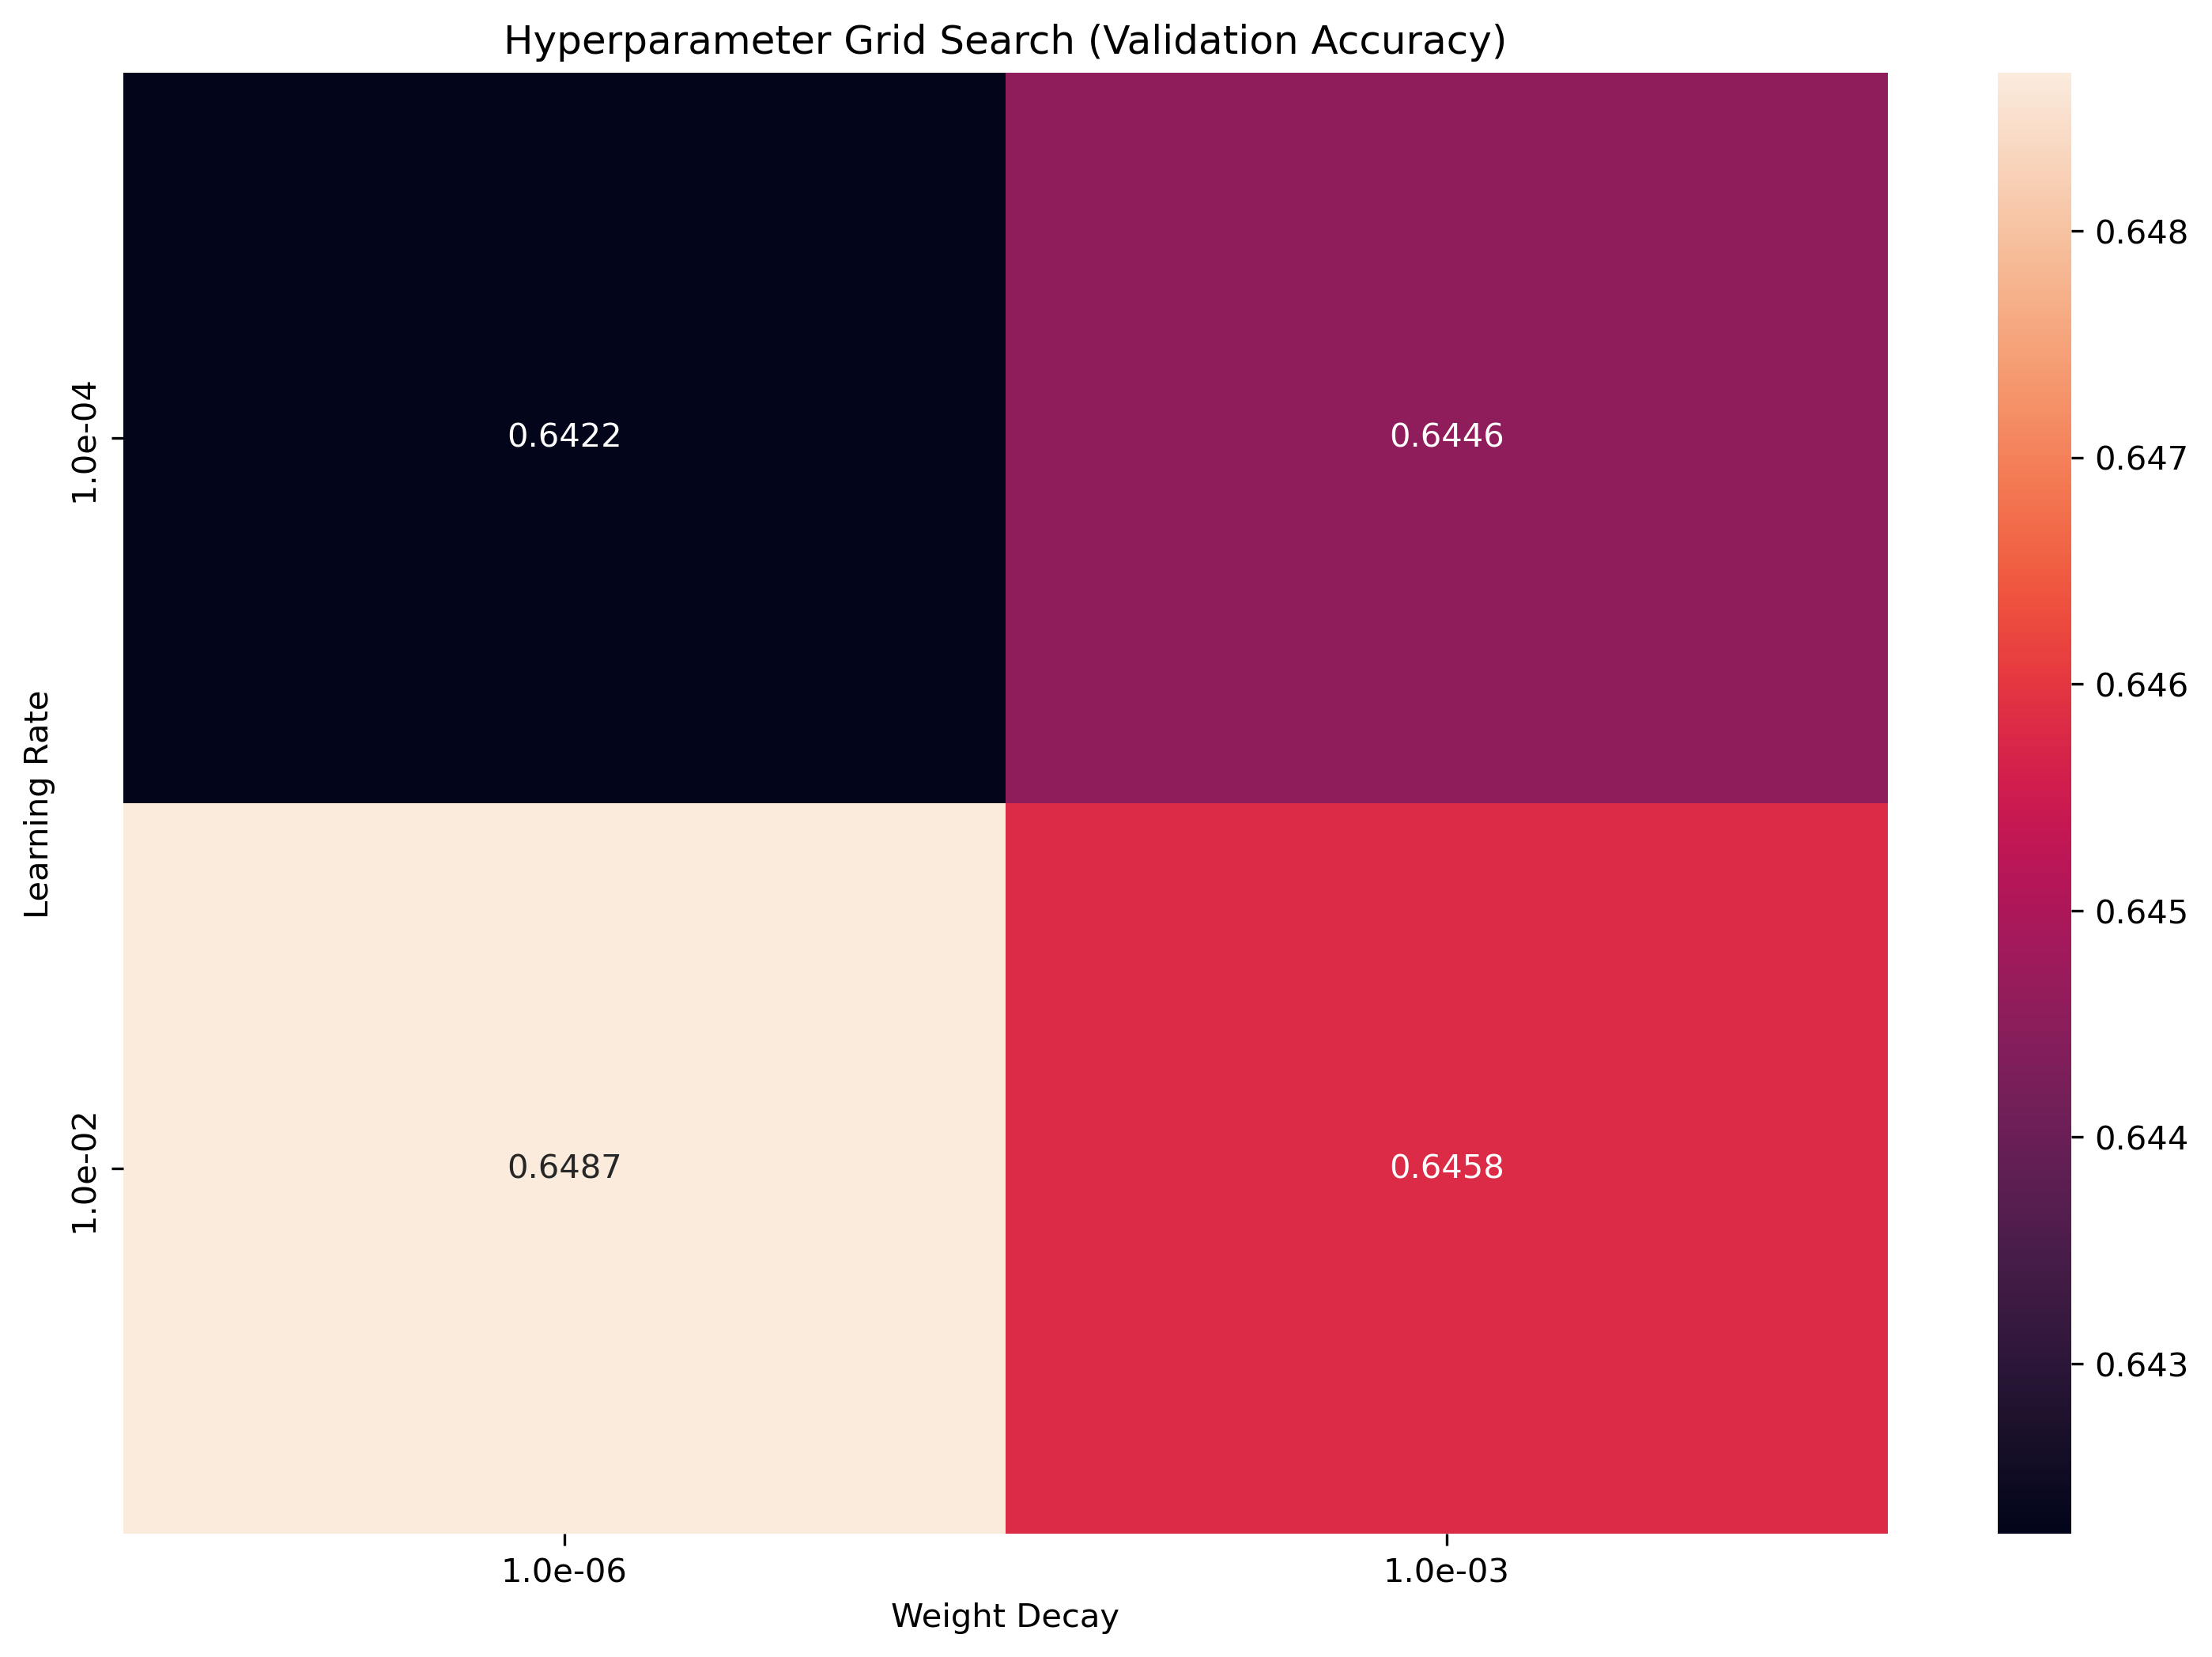
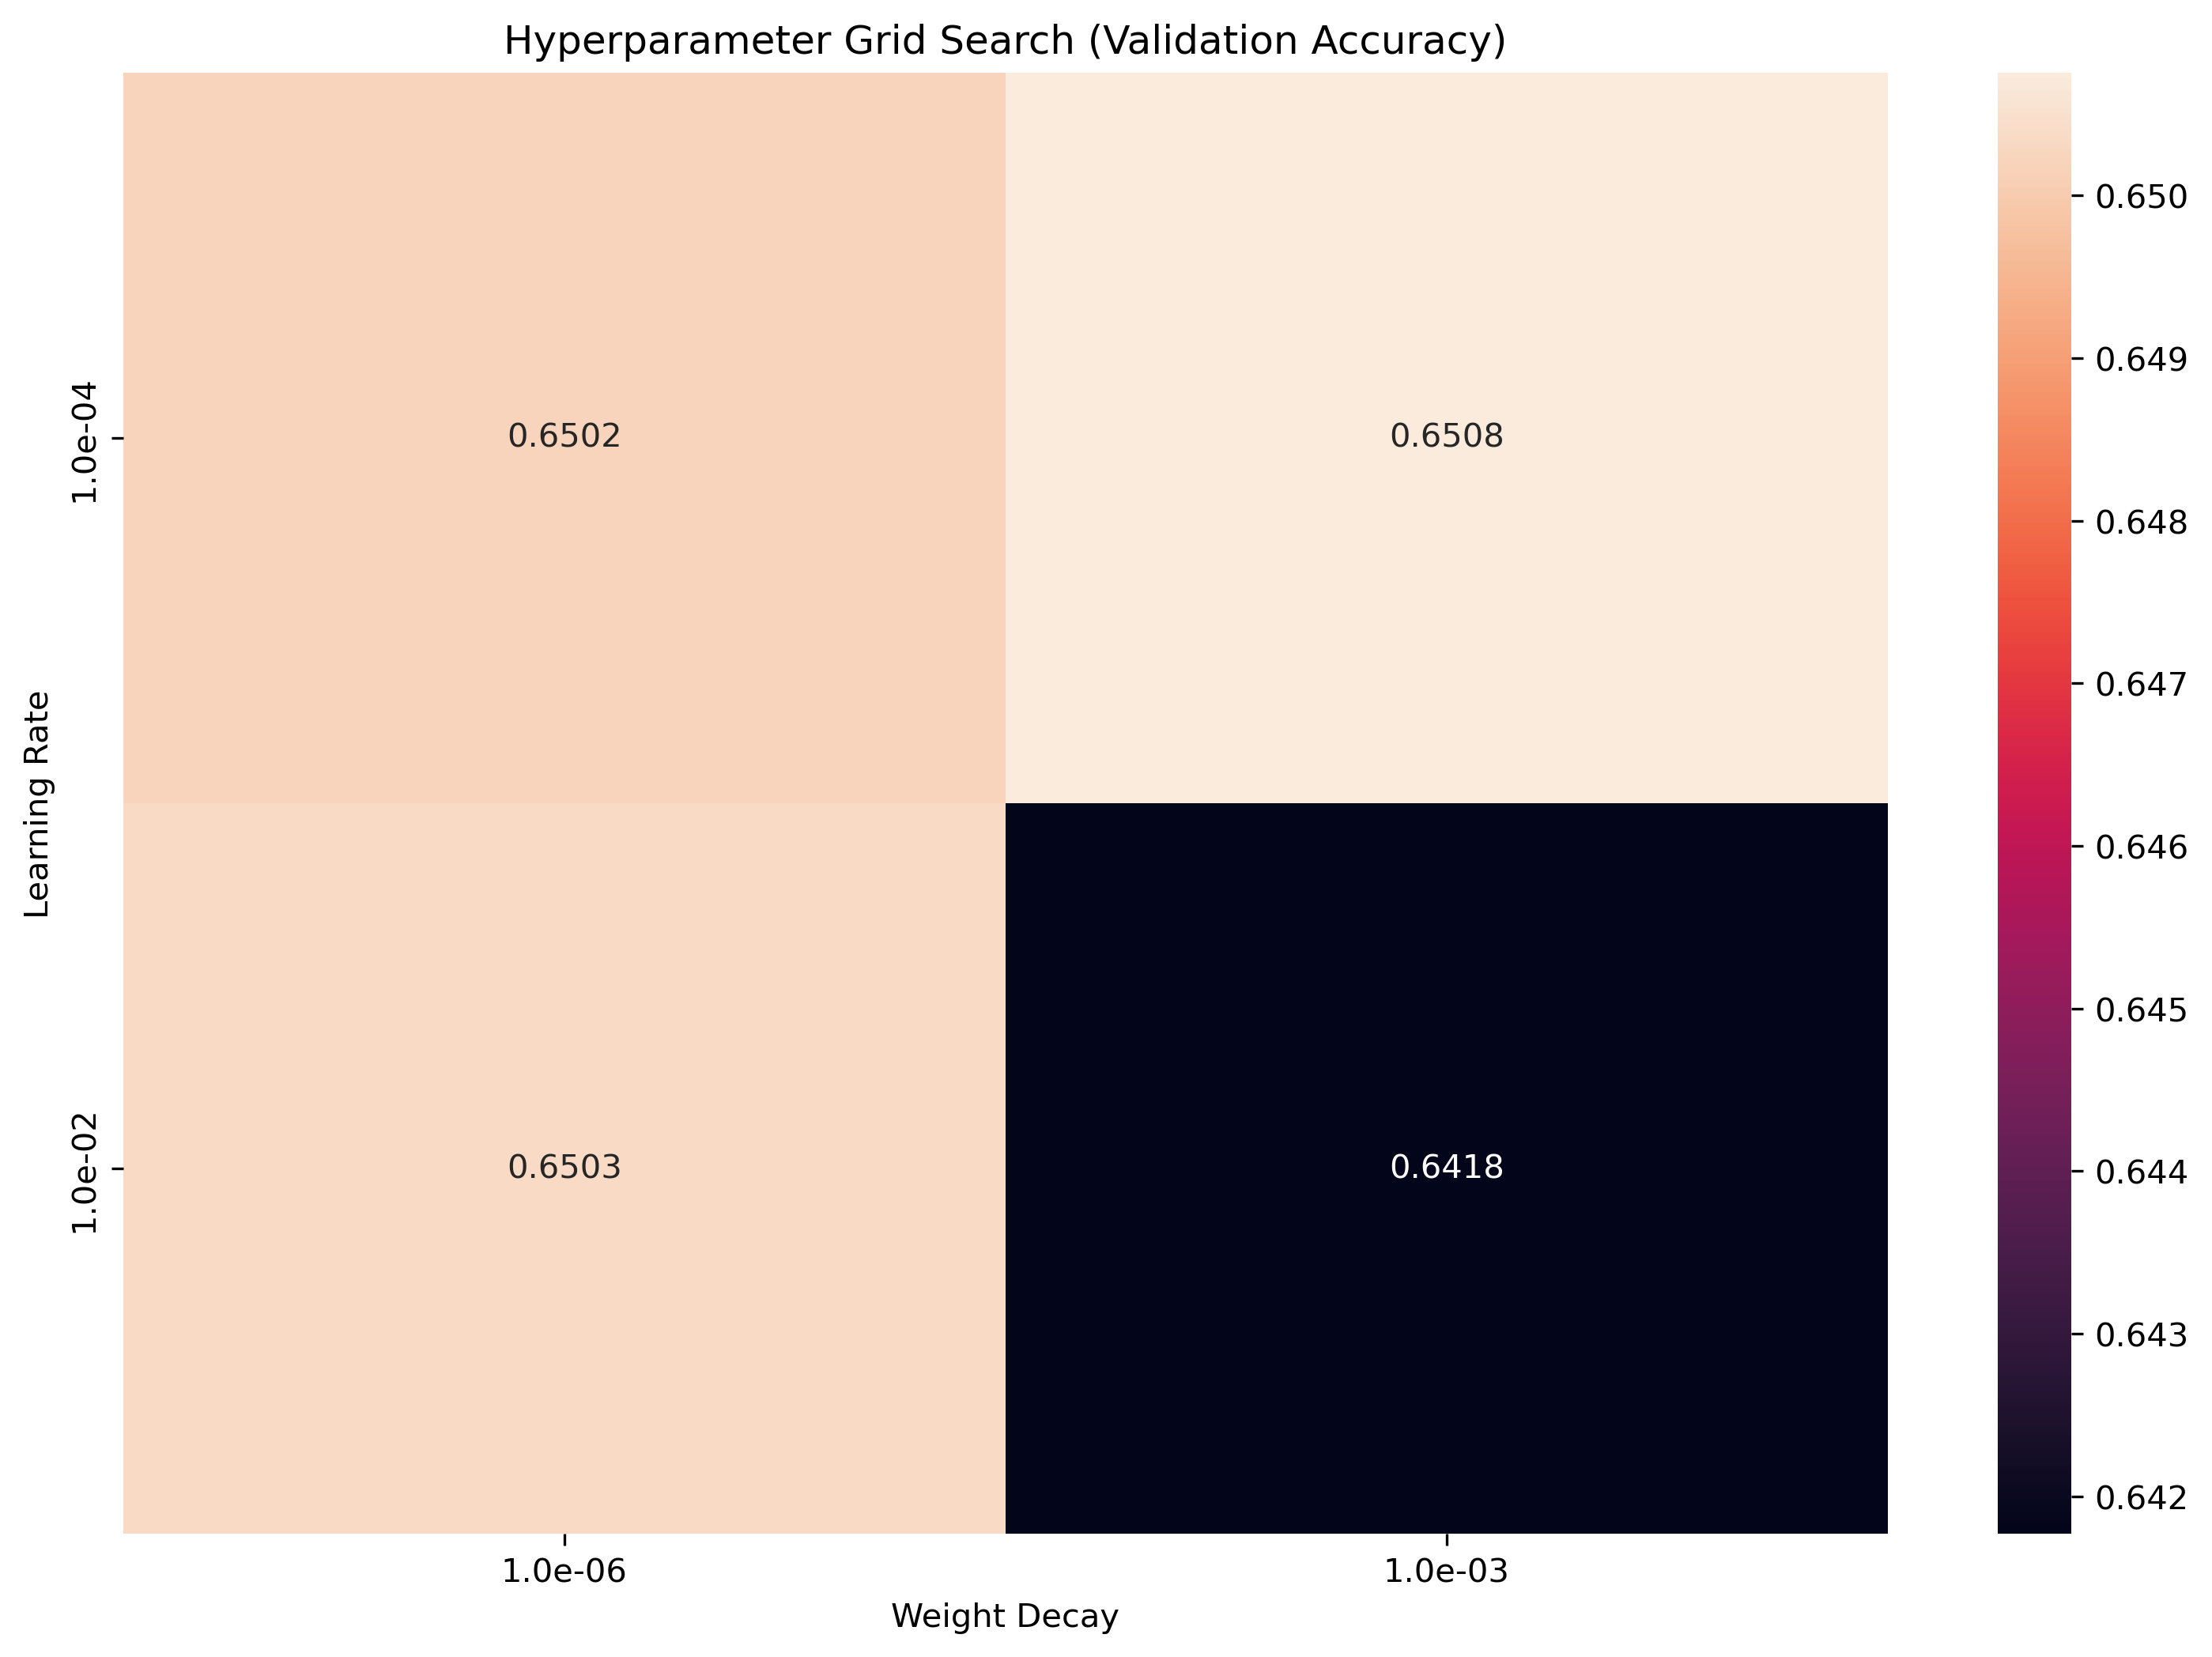
fin

diff --git a/src/infer_dl.py b/src/infer_dl.py
@@ -79,18 +79,19 @@ def predict(df: pd.DataFrame, model_path: str, scaler_path: str, batch_size: int
 
 
 def evaluate_model(model_path: str, scaler_path: str, test_data_path: str = None, 
-                   output_csv_path: str = None, device: str = 'cpu'):
+                   output_image_path: str = None, device: str = 'cpu'):
     """
     Đánh giá mô hình trên tập test (quarantine test set mặc định hoặc file CSV tùy chỉnh),
-    in ra Accuracy, Confusion Matrix, Classification Report và lưu kết quả.
+    in ra Accuracy, Confusion Matrix, Classification Report và lưu ảnh Confusion Matrix.
     """
-    if output_csv_path is None:
-        output_csv_path = os.path.join(models_dir, 'test_predictions.csv')
+    if output_image_path is None:
+        output_image_path = os.path.join(project_root, 'confusion_matrix.png')
 
     import json
     from utils.dataset import prepare_loaders, TennisDataset
     from torch.utils.data import DataLoader
     from sklearn.metrics import accuracy_score, classification_report, confusion_matrix
+    from utils.visualizer import plot_confusion_matrix
 
     print("\n" + "="*50)
     print("      ĐÁNH GIÁ MÔ HÌNH DỰ ĐOÁN TENNIS (INFERENCE)")
@@ -204,28 +205,15 @@ def evaluate_model(model_path: str, scaler_path: str, test_data_path: str = None
         cm = confusion_matrix(y_test, preds)
         print(cm)
         
+        print(f"\nĐang vẽ và lưu ảnh Confusion Matrix tại: {output_image_path}")
+        plot_confusion_matrix(cm, output_image_path)
+        
         print("\nBáo cáo chi tiết (Classification Report):")
         report = classification_report(y_test, preds, target_names=["Player 2 Win", "Player 1 Win"])
         print(report)
         print("=" * 58)
     else:
-        print(f"\nĐã hoàn thành dự đoán trên {len(preds)} mẫu.")
-
-    # 6. Save Predictions
-    output_df = pd.DataFrame({
-        'Prob_Player1_Win': probs,
-        'Pred_Winner_Label': preds,
-        'Pred_Winner': np.where(preds == 1, 'Player 1', 'Player 2')
-    })
-    
-    if y_test is not None:
-        output_df['True_Winner_Label'] = y_test
-        output_df['True_Winner'] = np.where(y_test == 1, 'Player 1', 'Player 2')
-        output_df['Correct'] = output_df['Pred_Winner'] == output_df['True_Winner']
-
-    os.makedirs(os.path.dirname(output_csv_path), exist_ok=True)
-    output_df.to_csv(output_csv_path, index=False, encoding='utf-8')
-    print(f"\n[Kết quả] Đã lưu kết quả dự đoán chi tiết tại: {output_csv_path}")
+        print(f"\nĐã hoàn thành dự đoán trên {len(preds)} mẫu. Không có ground truth target để vẽ Confusion Matrix.")
 
 
 if __name__ == '__main__':
@@ -234,6 +222,6 @@ if __name__ == '__main__':
         model_path=os.path.join(models_dir, 'final_model_best.pth'),
         scaler_path=os.path.join(models_dir, 'scaler.joblib'),
         test_data_path=None,
-        output_csv_path=os.path.join(models_dir, 'test_predictions.csv'),
+        output_image_path=os.path.join(project_root, 'confusion_matrix.png'),
         device=device
     )

diff --git a/src/train_dl.py b/src/train_dl.py
@@ -18,7 +18,7 @@ project_root = os.path.abspath(os.path.join(os.path.dirname(__file__), '..'))
 models_dir = os.path.join(project_root, 'models')
 
 
-def train(model_path=None, epochs=50, skip_cv=False):
+def train(model_path=None, epochs=5, skip_cv=False):
     device = torch.device("cpu")
     if torch.cuda.is_available():
         device = torch.device("cuda")
@@ -95,8 +95,8 @@ def train(model_path=None, epochs=50, skip_cv=False):
 
     if not skip_cv:
         # Tự động tìm kiếm trên lưới 10x10
-        learning_rates = np.logspace(-4, -2, 10).tolist()
-        weight_decays = np.logspace(-6, -3, 10).tolist()
+        learning_rates = np.logspace(-4, -2, 2).tolist()
+        weight_decays = np.logspace(-6, -3, 2).tolist()
 
         best_acc = 0
         best_history = None
@@ -214,19 +214,13 @@ def train(model_path=None, epochs=50, skip_cv=False):
     torch.save(final_model.state_dict(), os.path.join(models_dir, 'final_model_last.pth'))
     print(f"Đã lưu trọng số mô hình cuối cùng (last, best) tại thư mục {models_dir}")
             
-    # 3. Đánh giá trên quarantine test set
-    test_acc = evaluate_test(final_model, test_loader, device)
-
-    # 4. Lưu báo cáo kết quả report.md
+    # 3. Lưu báo cáo kết quả report.md
     report_content = f"""# Báo Cáo Kết Quả Huấn Luyện (Tennis Match Prediction)
 
 ## Siêu tham số tối ưu tìm được qua Grid Search
 - **Learning Rate (LR):** {best_lr:.2e}
 - **Weight Decay (WD):** {best_wd:.2e}
 - **Độ chính xác Cross-Validation tốt nhất (Best CV Accuracy):** {best_acc:.4f}
-
-## Đánh giá trên tập dữ liệu Test Quarantine
-- **Độ chính xác trên tập Test (Final Test Accuracy):** {test_acc:.4f}
 
 ## Biểu đồ trực quan hóa
 
@@ -241,18 +235,6 @@ def train(model_path=None, epochs=50, skip_cv=False):
         f.write(report_content)
     print(f"Đã lưu báo cáo kết quả tại: {report_path}")
 
-
-def evaluate_test(model, test_loader, device):
-    model.eval()
-    correct = 0
-    with torch.no_grad():
-        for X_test, y_test in test_loader:
-            X_test, y_test = X_test.to(device), y_test.to(device)
-            preds = model(X_test).argmax(dim=1)
-            correct += (preds == y_test).sum().item()
-    test_acc = correct / len(test_loader.dataset)
-    print(f"Final Test Accuracy: {test_acc:.4f}")
-    return test_acc
 
 
 if __name__ == "__main__":

diff --git a/src/utils/visualizer.py b/src/utils/visualizer.py
@@ -34,3 +34,13 @@ def plot_hyperparameter_heatmap(results, lr_list, wd_list):
     plt.ylabel('Learning Rate')
     plt.title('Hyperparameter Grid Search (Validation Accuracy)')
     _show_or_save_plot('hyperparameter_heatmap.png')
+
+def plot_confusion_matrix(cm, filename='confusion_matrix.png'):
+    plt.figure(figsize=(6, 5))
+    sns.heatmap(cm, annot=True, fmt='d', cmap='Blues',
+                xticklabels=['Player 2 Win', 'Player 1 Win'],
+                yticklabels=['Player 2 Win', 'Player 1 Win'])
+    plt.ylabel('Actual')
+    plt.xlabel('Predicted')
+    plt.title('Confusion Matrix')
+    _show_or_save_plot(filename)

diff --git a/report.md b/report.md
@@ -1,12 +1,9 @@
 # Báo Cáo Kết Quả Huấn Luyện (Tennis Match Prediction)
 
 ## Siêu tham số tối ưu tìm được qua Grid Search
-- **Learning Rate (LR):** 1.00e-02
-- **Weight Decay (WD):** 1.00e-06
-- **Độ chính xác Cross-Validation tốt nhất (Best CV Accuracy):** 0.6487
-
-## Đánh giá trên tập dữ liệu Test Quarantine
-- **Độ chính xác trên tập Test (Final Test Accuracy):** 0.6457
+- **Learning Rate (LR):** 1.00e-04
+- **Weight Decay (WD):** 1.00e-03
+- **Độ chính xác Cross-Validation tốt nhất (Best CV Accuracy):** 0.6508
 
 ## Biểu đồ trực quan hóa
 